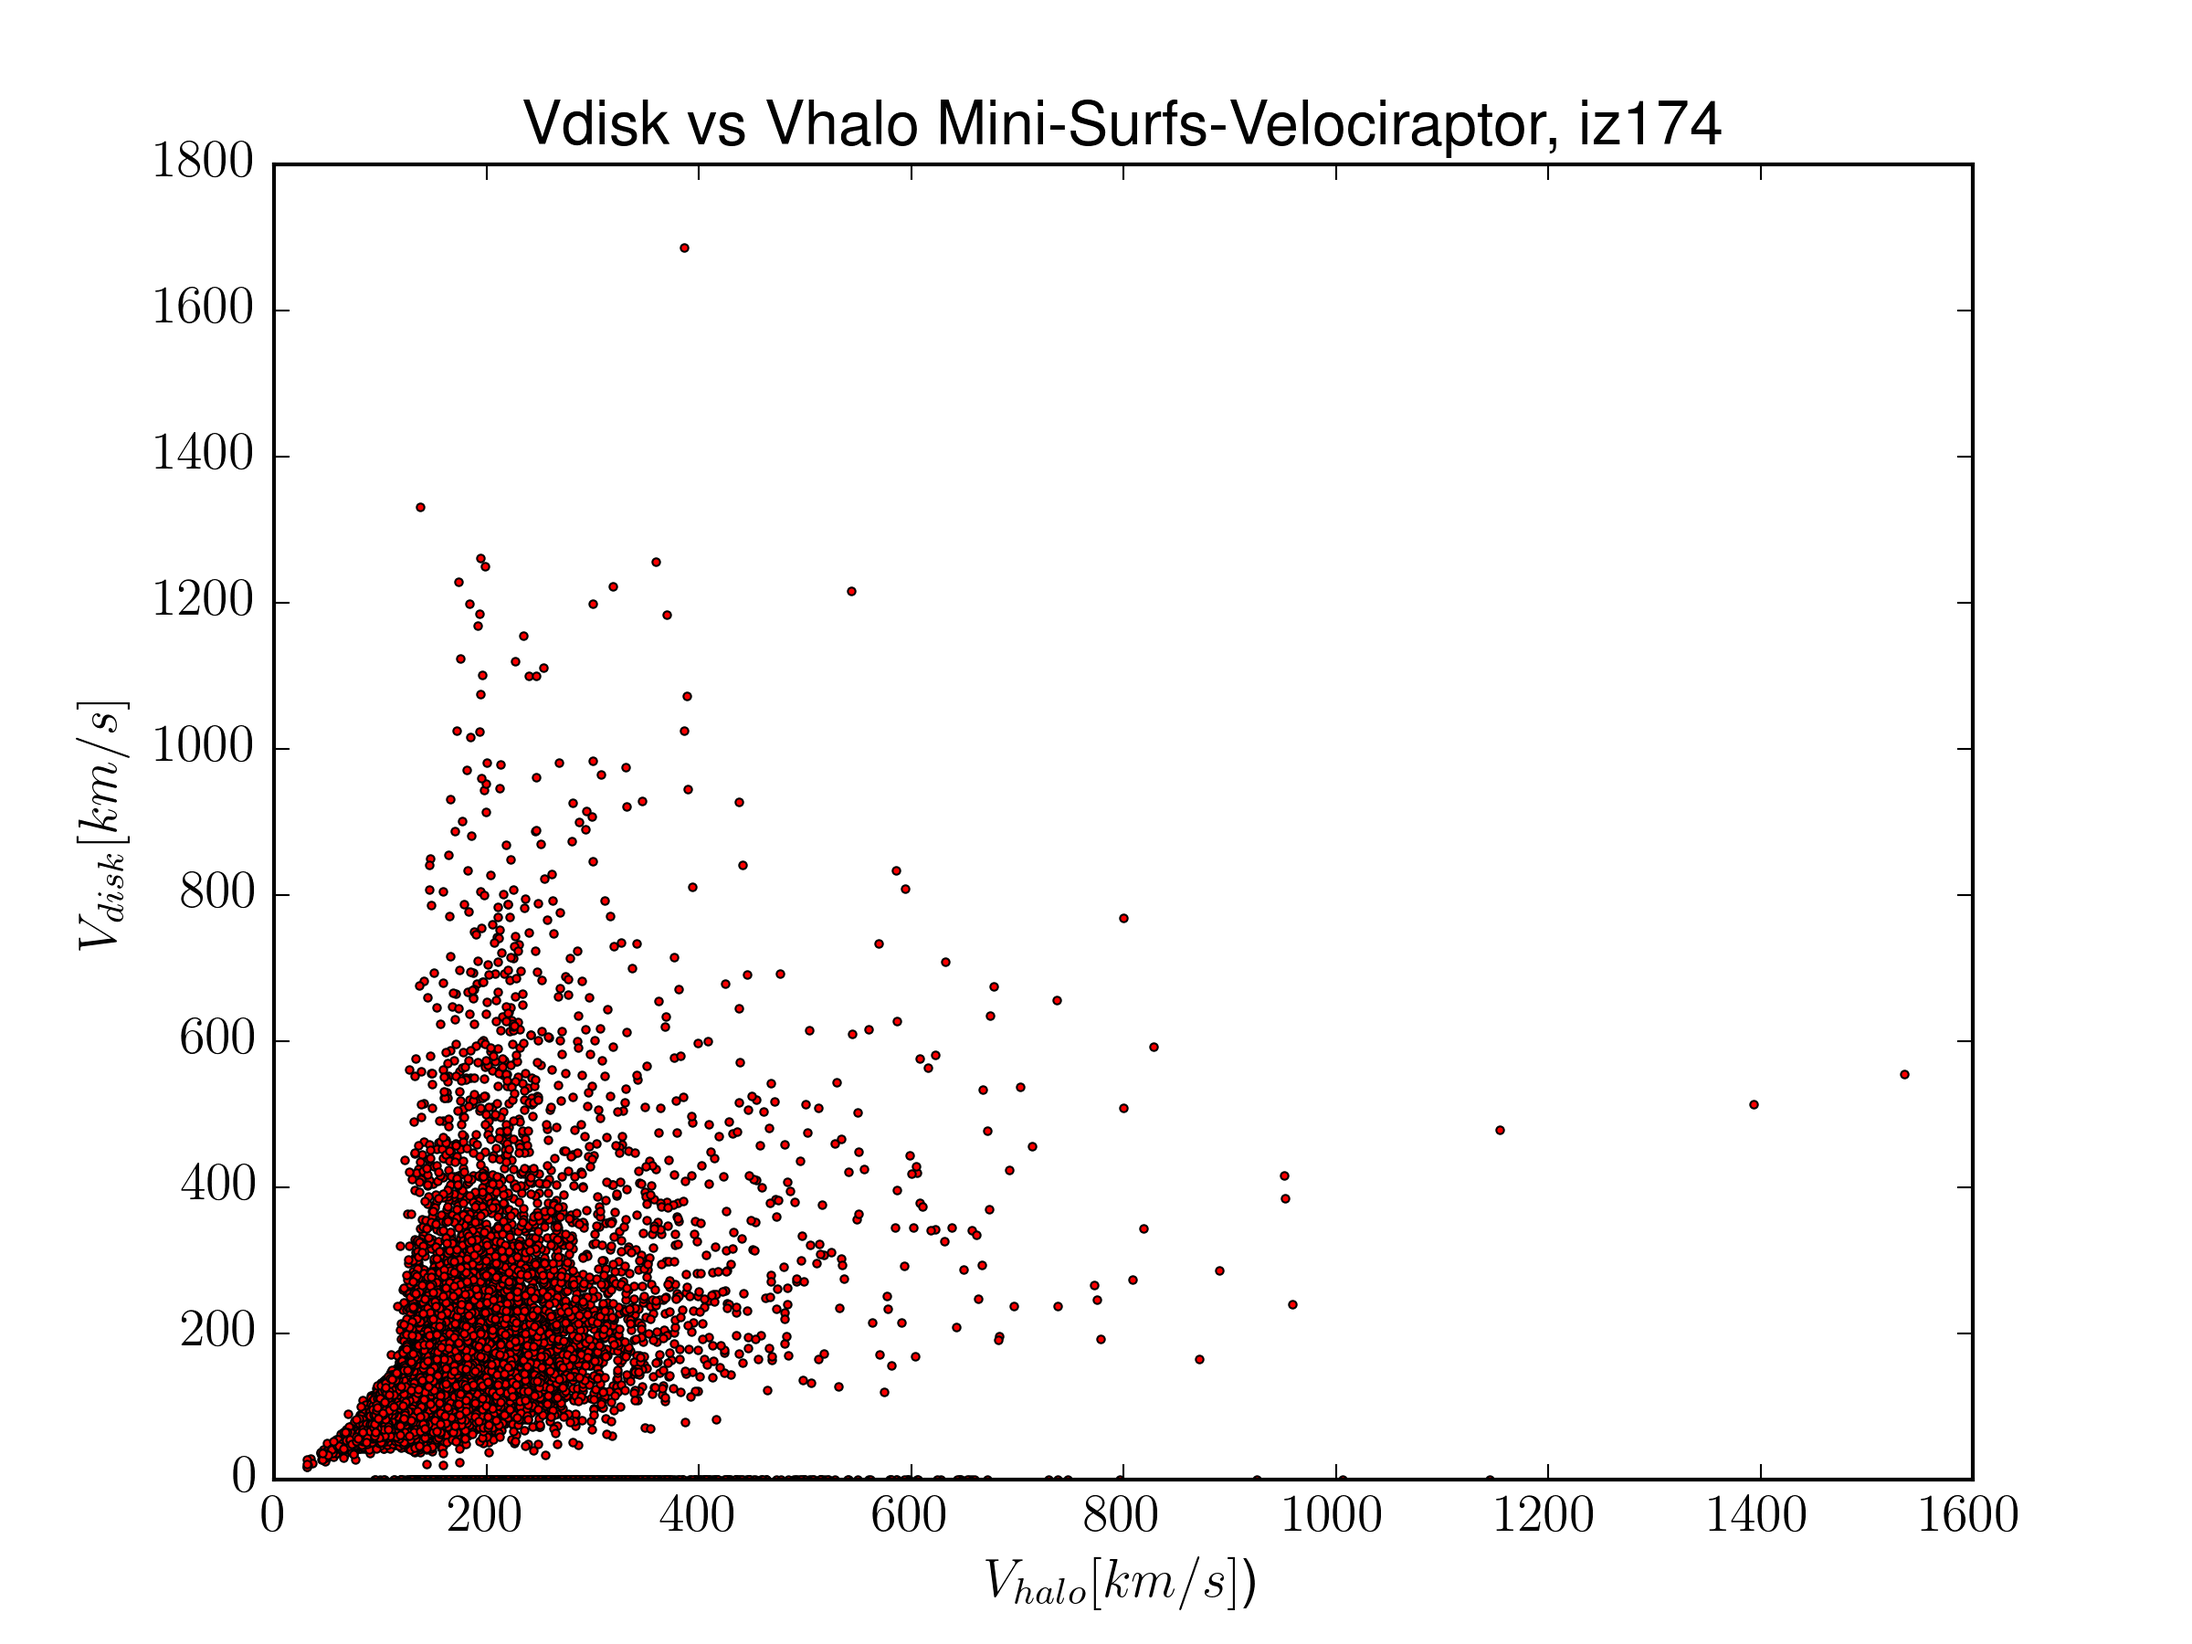
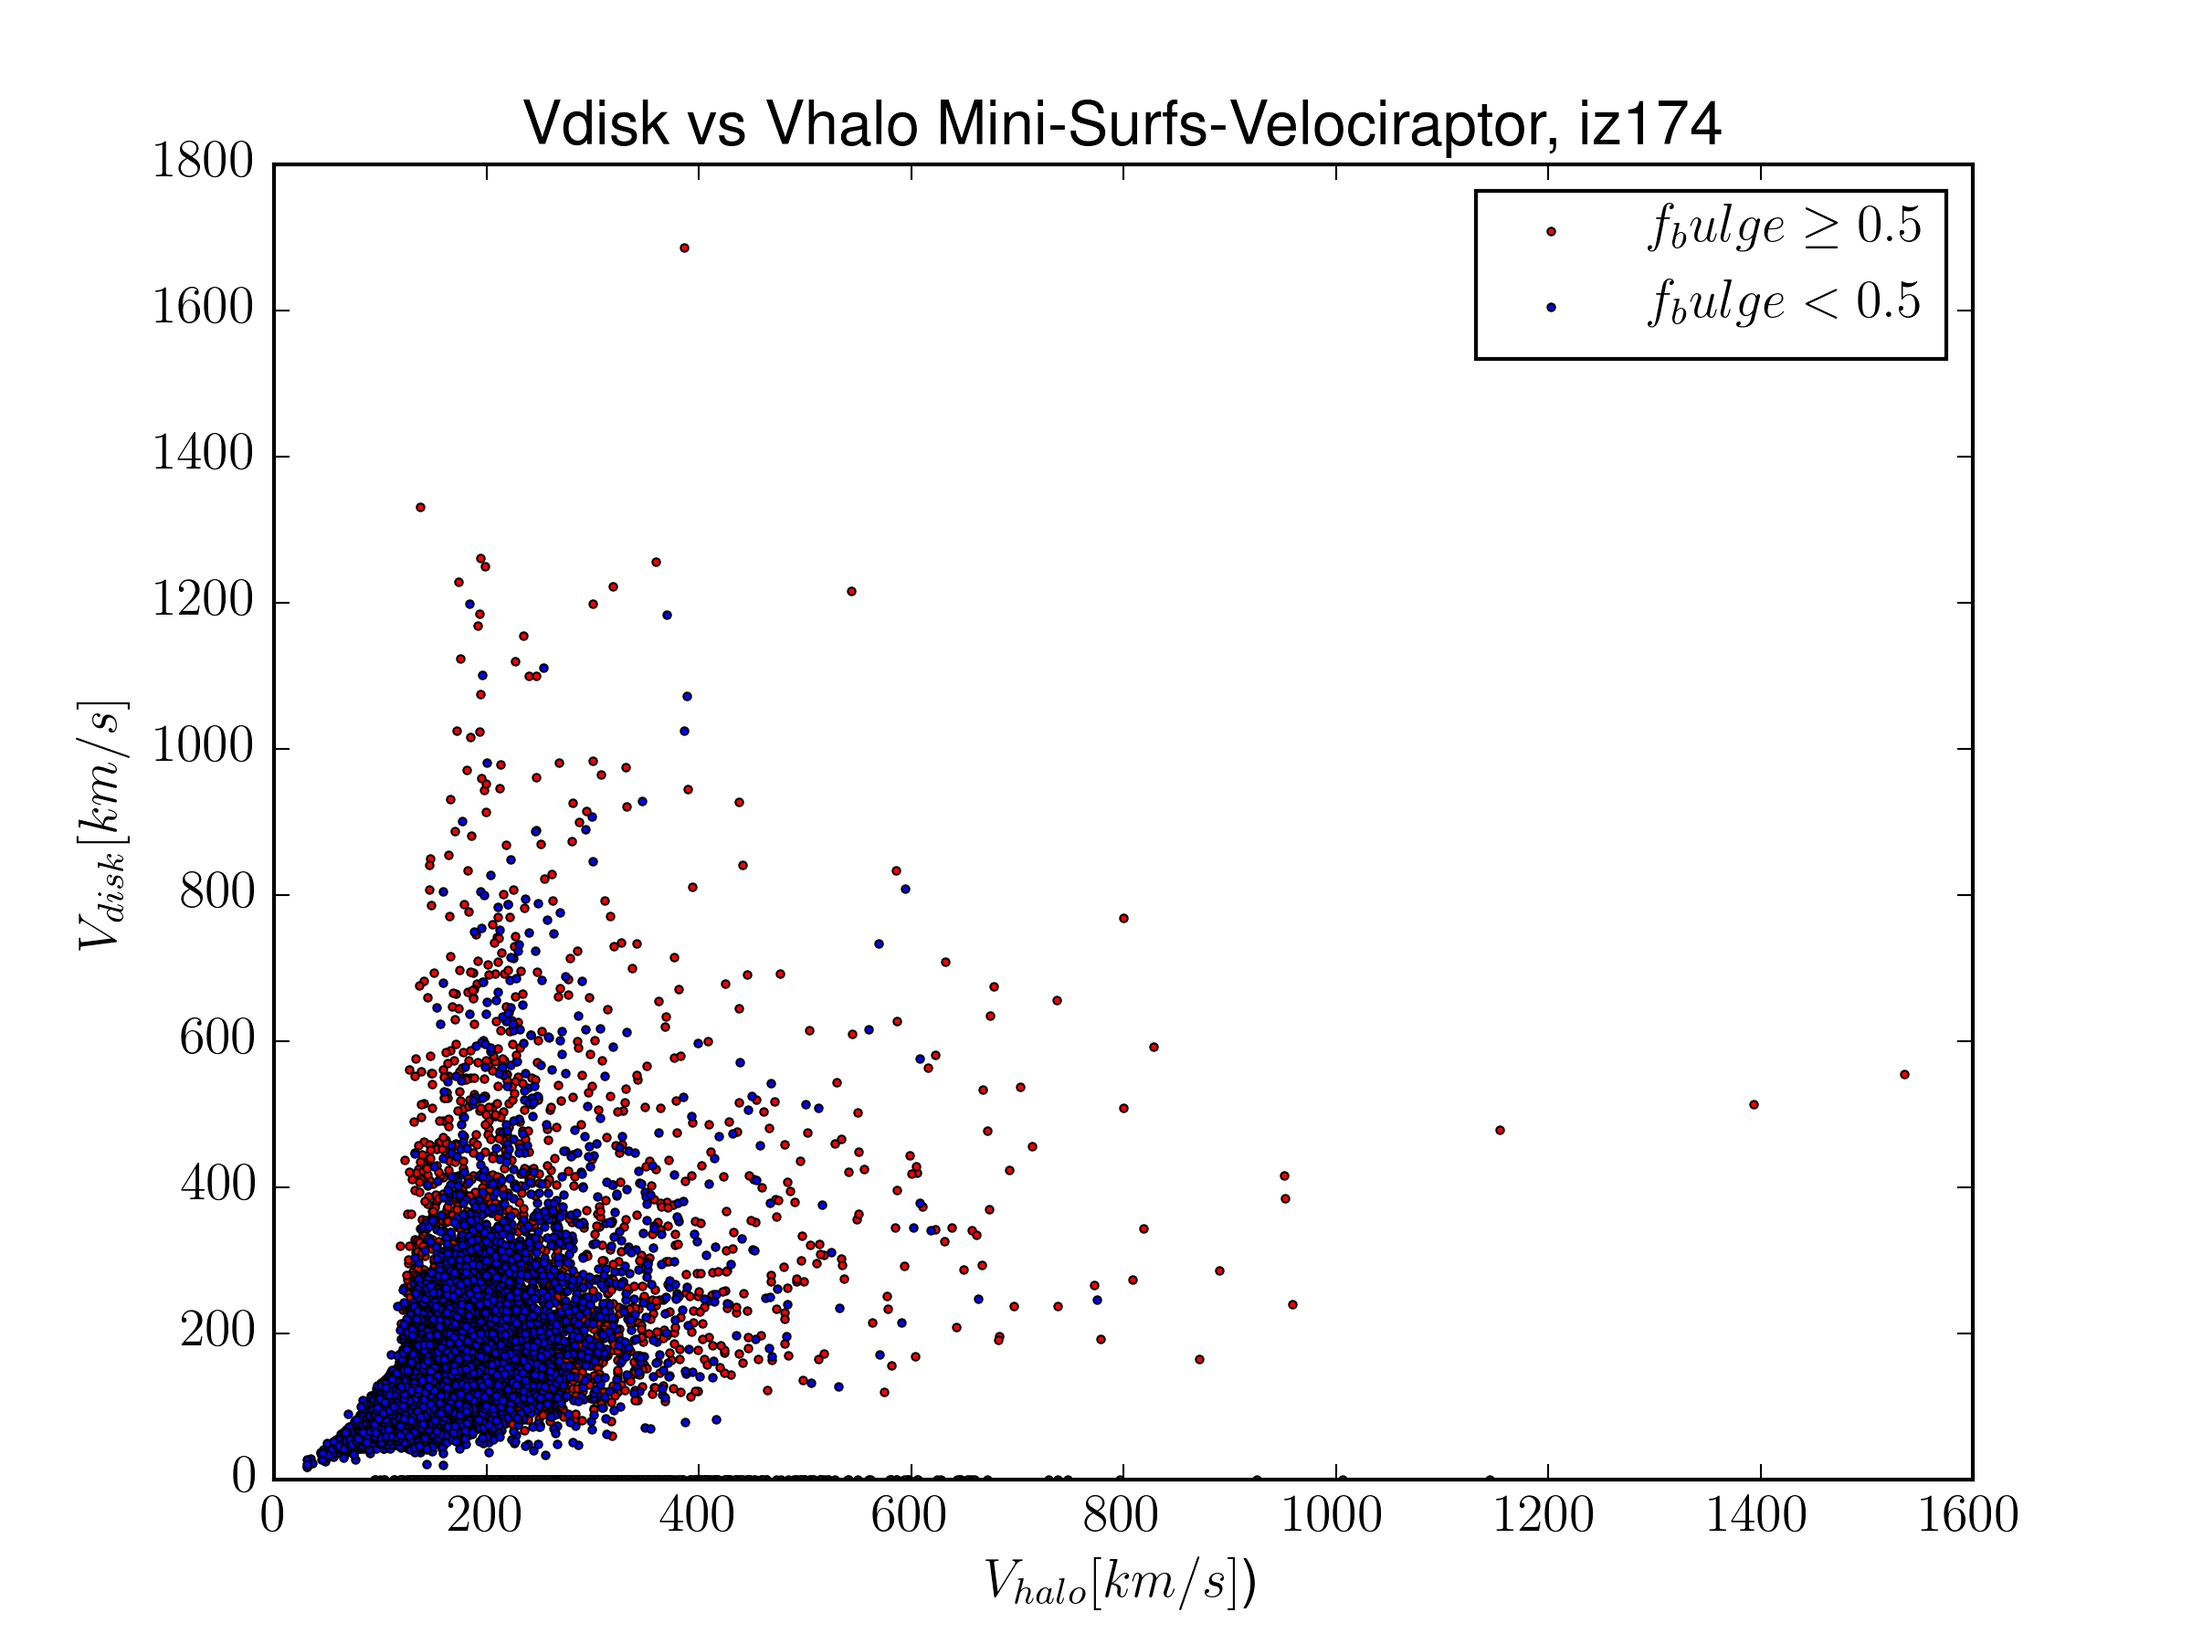
plot1 considering fbulge finished

diff --git a/plot1.py b/plot1.py
@@ -33,8 +33,11 @@ box_size= 210.0 # Mpc/h
 
 
 for i in range(0,len(redshifts)):
-        vdisk_total=np.empty(1)
-        vhalo_total=np.empty(1)
+        vdisk_t=np.empty(1)
+        vhalo_t=np.empty(1)
+        mstars_bulge_t=np.empty(1)
+        mstars_disk_t=np.empty(1)
+
         title=r'Vdisk vs Vhalo Mini-Surfs-Velociraptor, '+redshifts[i]
         for j in range(0,len(ivols)):
         # set figure
@@ -44,24 +47,38 @@ for i in range(0,len(redshifts)):
             direc=direc+redshifts[i]+'/'+ivols[j]+'/galaxies.hdf5'
             ##Reading the data from hdf5 file ####
             with h5py.File(direc,'r') as hf:
-                data = hf.get('Output001')
-               #  np_data = np.array(data)
-               #  print('Shape of the array Output001: \n', np_data.shape)
-               #  print('List of items of the output: \n',data.items())
-                times =hf.get("Output_Times")
-                vdisk=np.array(data.get('vdisk'))
-                vhalo=np.array(data.get('vhalo'))
+                data         = hf.get('Output001')
+                times        =hf.get("Output_Times")
+                vdisk        =np.array(data.get('vdisk'))
+                vhalo        =np.array(data.get('vhalo'))
+                mstars_disk  =np.array(data.get('mstars_disk'))
+                mstars_bulge =np.array(data.get('mstars_bulge'))
+                
 
-     #volume 144703.125
-    # Checking Vdisk data and Vhalo data
-     #   n_data1=vdisk.shape[0]# they are both the same number
-     #   n_data2=vhalo.shape[0]# check above
-                vdisk_total=np.append(vdisk_total,vdisk)
-                vhalo_total=np.append(vhalo_total,vhalo)
+
+                vdisk_t      =np.append(vdisk_t,vdisk)
+                vhalo_t      =np.append(vhalo_t,vhalo)
+                mstars_disk_t=np.append(mstars_disk_t,mstars_disk)
+                mstars_bulge_t=np.append(mstars_bulge_t,mstars_bulge)
             direc='./Gonzalez15.VELOCIraptor/'
+
+
         
-        vdisk_t=vdisk_total[1:]
-        vhalo_t=vhalo_total[1:]
+        vdisk_t       =vdisk_t[1:]
+        vhalo_t       =vhalo_t[1:]
+        mstars_disk_t =mstars_disk_t[1:]
+        mstars_bulge_t=mstars_bulge_t[1:]
+        mstars_total  = mstars_disk_t + mstars_bulge_t
+        id0= (mstars_total>0)
+        fbulge=mstars_bulge_t[id0]/mstars_total[id0]
+        vhalo_t           =vhalo_t[id0]
+        vdisk_t           =vdisk_t[id0]
+       
+
+
+        idx1=(fbulge>=0.5)
+        idx2=(fbulge<0.5)
+
         vdisk_min=np.amin(vdisk_t)
         vdisk_max=np.amax(vdisk_t)
         print(u'The Vdisk goes from %3.5f to %3.5f' %(vdisk_min,vdisk_max))
@@ -74,7 +91,11 @@ for i in range(0,len(redshifts)):
         n_data1=np.shape(vdisk_t)[0]
 
 	     
-        axs.plot(vhalo_t,vdisk_t, 'ro',markersize =2)
+        axs.plot(vhalo_t[idx1],vdisk_t[idx1],'or',label=r"$f_bulge\geq 0.5$",markersize =2)
+        axs.plot(vhalo_t[idx2],vdisk_t[idx2],'ob',label=r"$f_bulge< 0.5$",markersize =2)
+        handles, labels = axs.get_legend_handles_labels()
+        axs.legend(handles, labels, numpoints=1, loc='upper right') 
+
         #handles, labels = axs.get_legend_handles_labels()
         #axs.legend(handles, labels, numpoints=1, loc='upper right') #, prop={'size': 'x-small'})
         #axs.set_ylim(1E-1,1E1)
